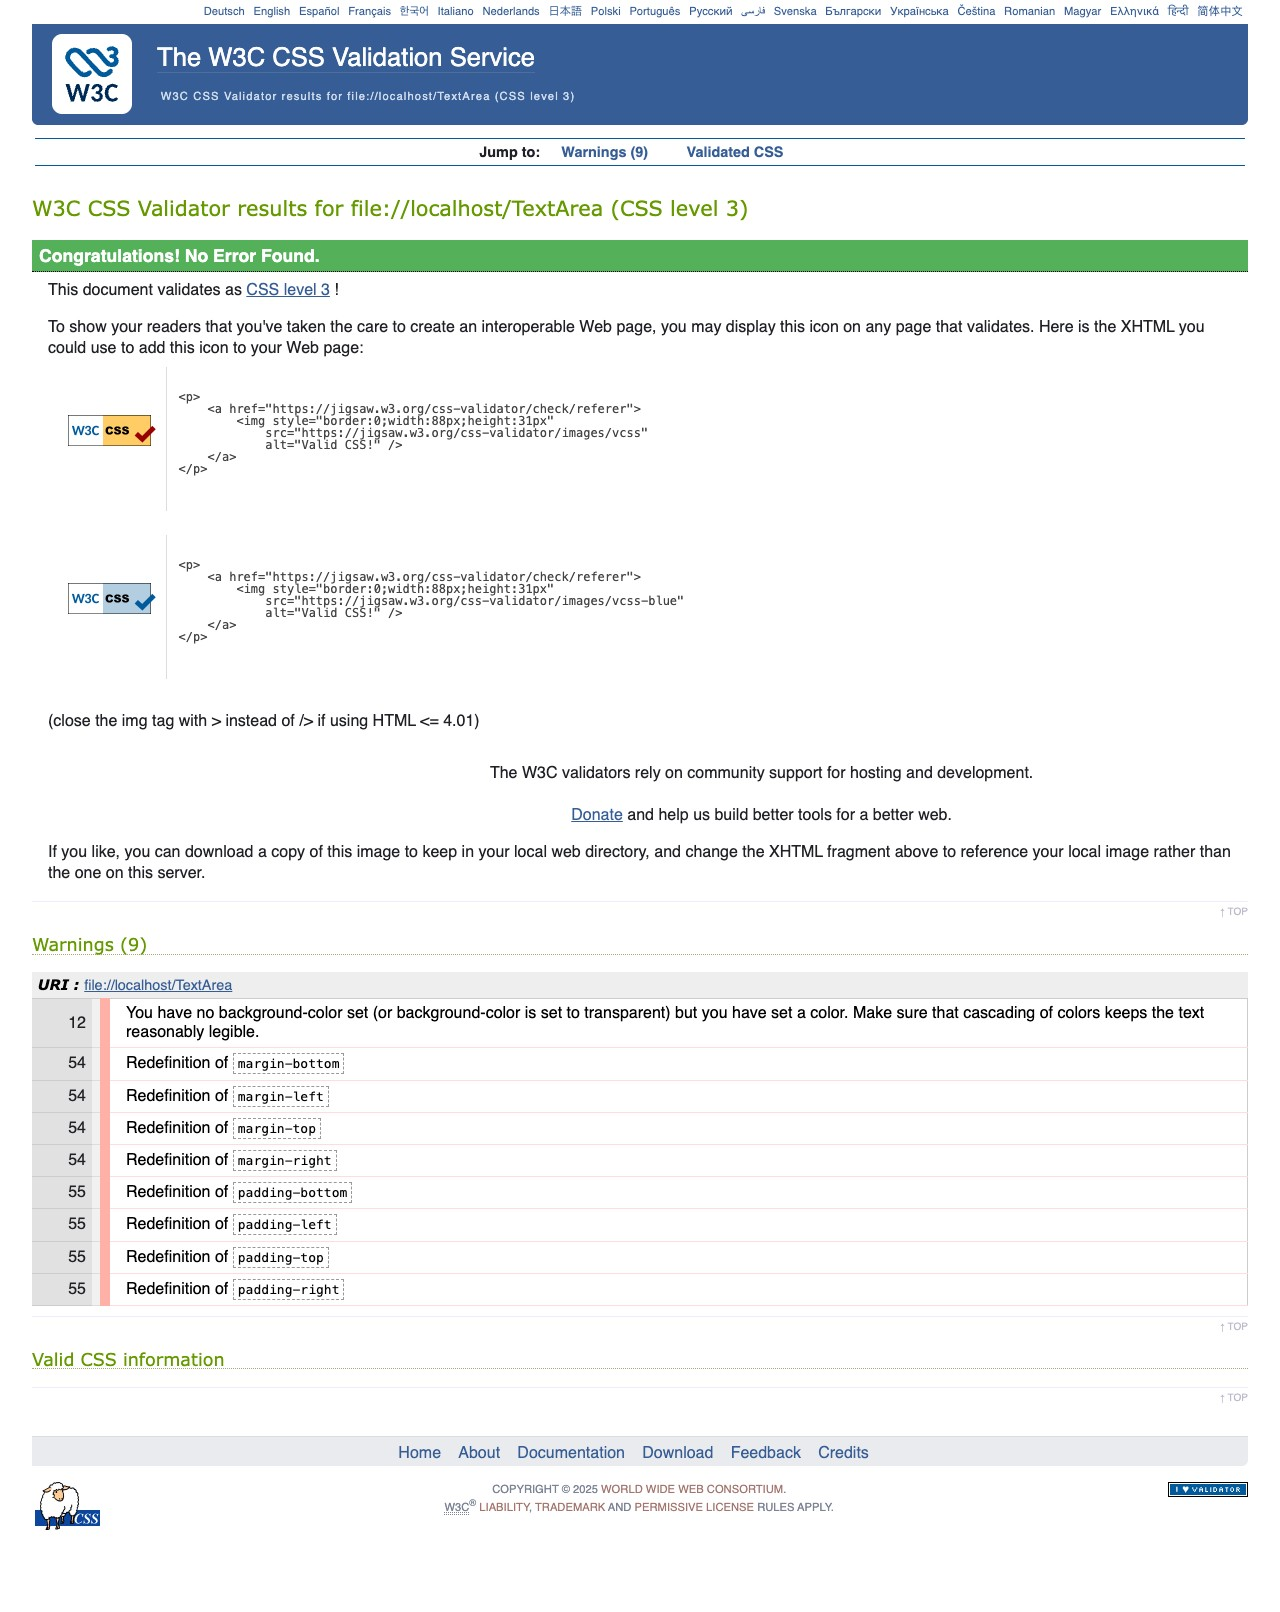
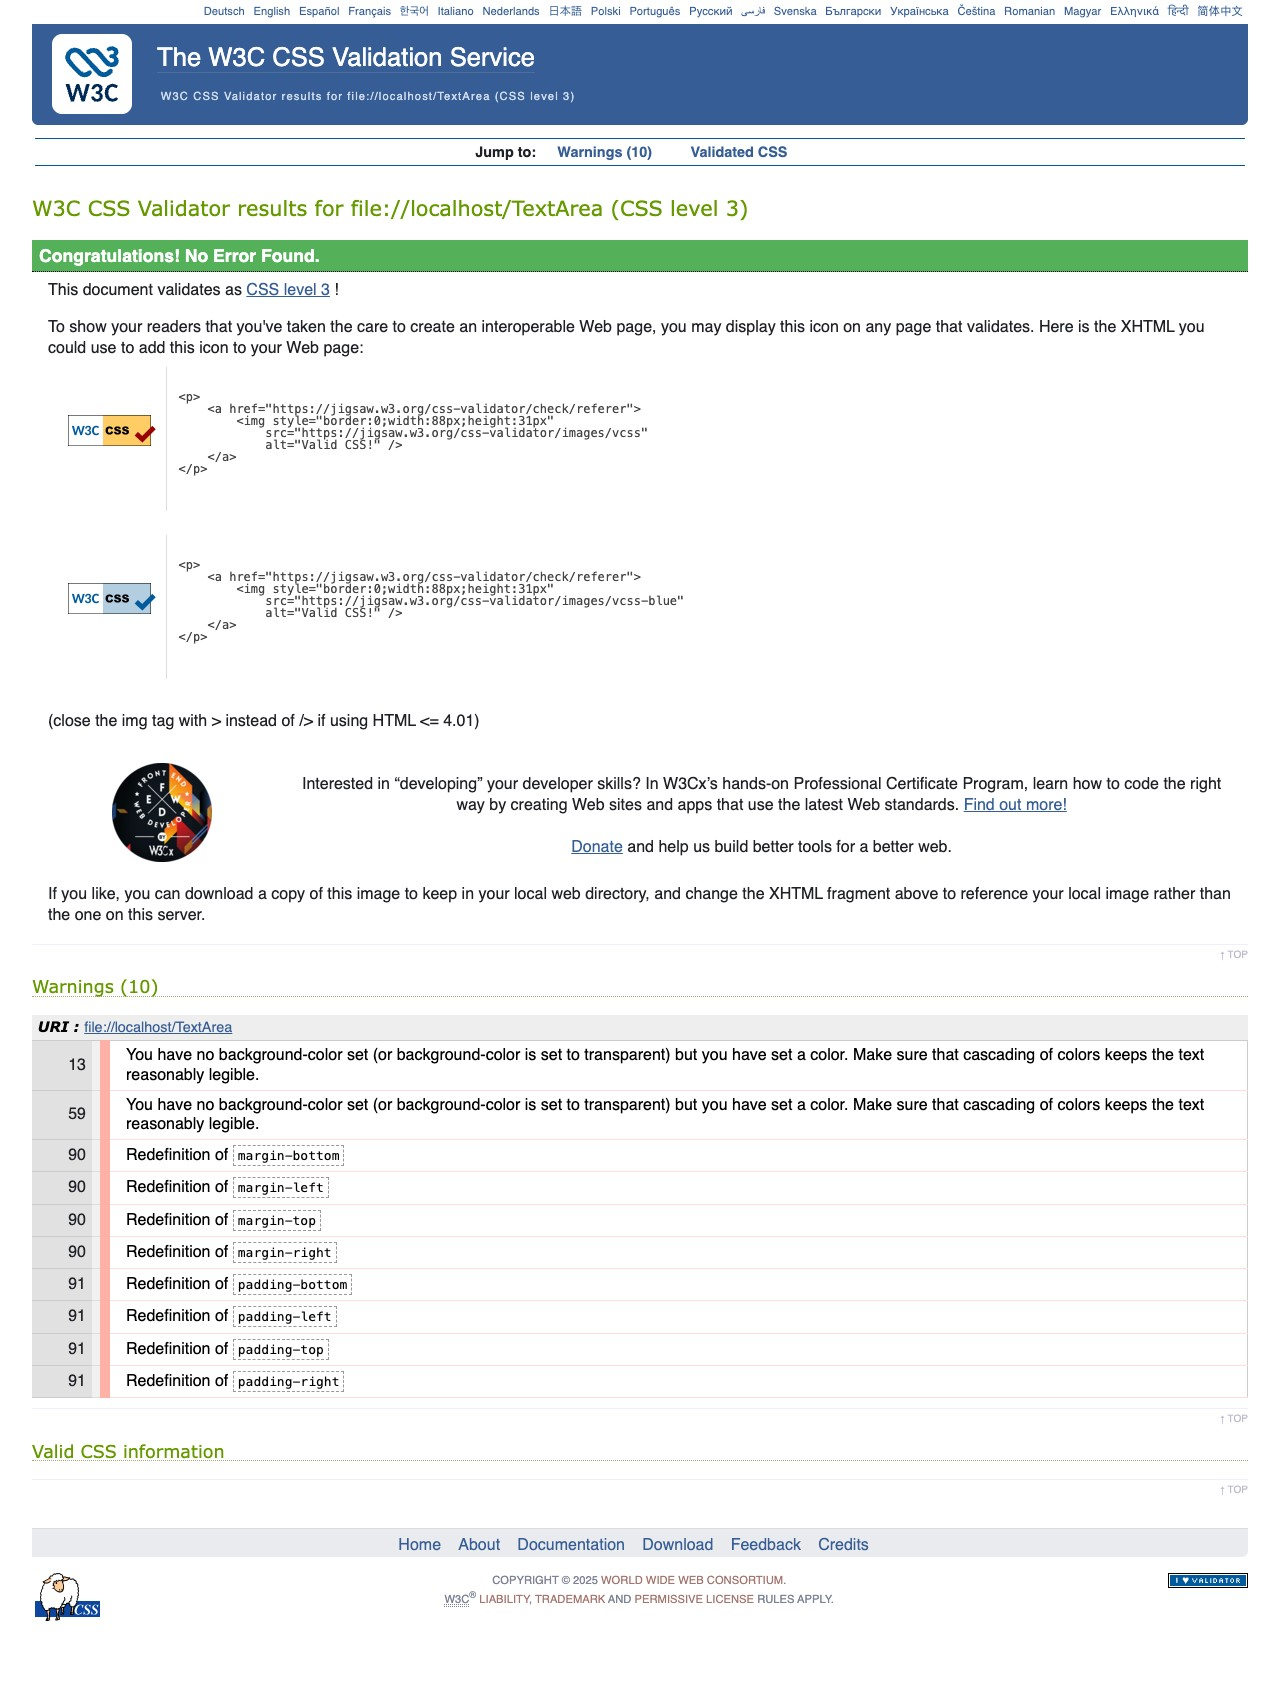
Restore simple navigation and dividers; remove copyright line

diff --git a/style.css b/style.css
@@ -3,6 +3,7 @@ body {
   margin: 20px auto;
   padding: 20px;
   font-family: Arial, Helvetica, sans-serif;
+  font-size: 16px;
   line-height: 1.5;
   color: black;
   background-color: white;
@@ -17,22 +18,55 @@ a:focus {
   outline-offset: 2px;
 }
 
+h1 {
+  font-size: 36px;
+  line-height: 1.2;
+}
+
+h2 {
+  font-size: 26px;
+  line-height: 1.3;
+}
+
+h3 {
+  font-size: 20px;
+}
+
+header p {
+  font-size: 18px;
+}
+
+nav {
+  margin-top: 20px;
+  padding: 10px;
+  color: white;
+  background-color: black;
+}
+
 nav ul {
+  margin: 0;
   padding: 0;
 }
 
 nav li {
   display: inline-block;
-  margin-right: 15px;
+  margin-right: 10px;
 }
 
 nav a {
   display: inline-block;
-  padding: 5px 0;
+  padding: 6px 8px;
+  color: white;
+}
+
+nav a:focus {
+  outline-color: white;
 }
 
 section {
   margin: 30px 0;
+  padding-top: 20px;
+  border-top: 1px solid black;
 }
 
 section h3 {
@@ -46,6 +80,8 @@ section h3 {
 
 footer {
   margin-top: 30px;
+  padding-top: 20px;
+  border-top: 1px solid black;
 }
 
 /* Keep some space beside the text on small screens. */

diff --git a/index.html b/index.html
@@ -92,7 +92,6 @@
   </main>
 
   <footer>
-    <p>© 2026 Remiel Shirazi</p>
     <a href="#main">Back to main content</a>
   </footer>
 </body>
